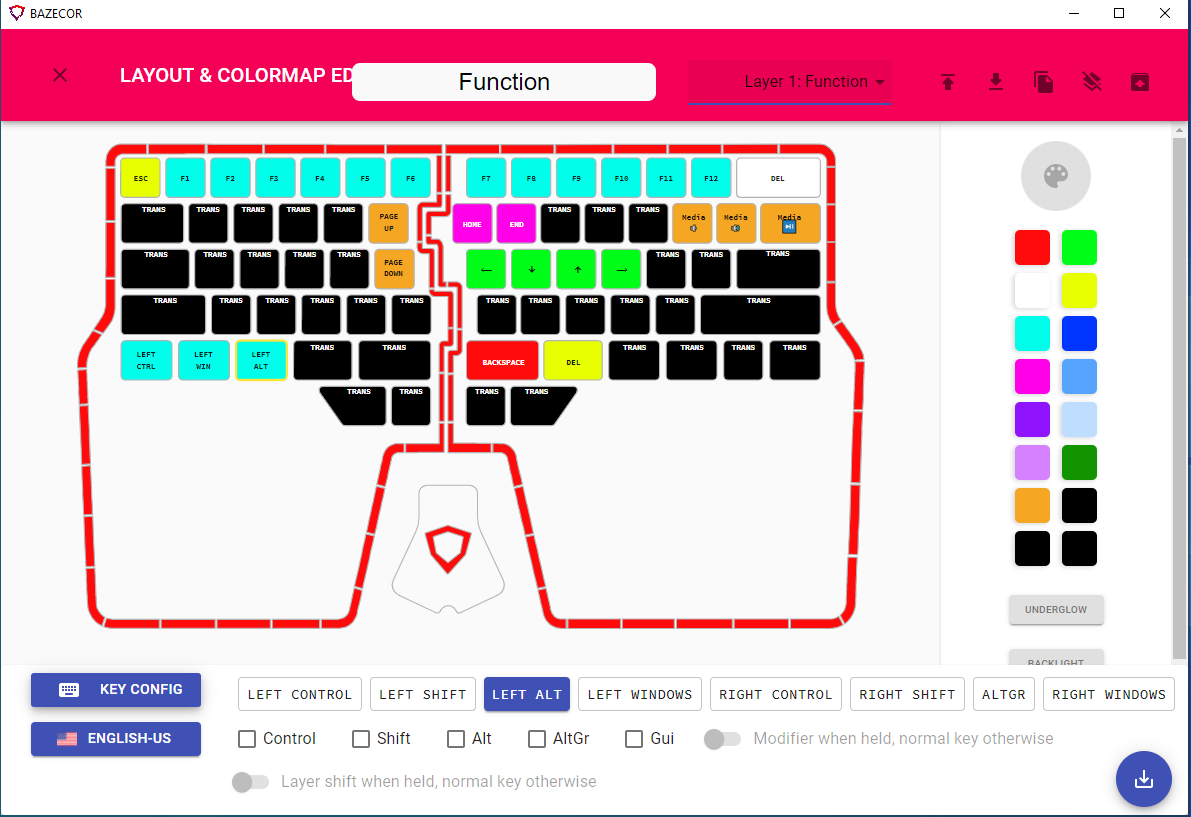
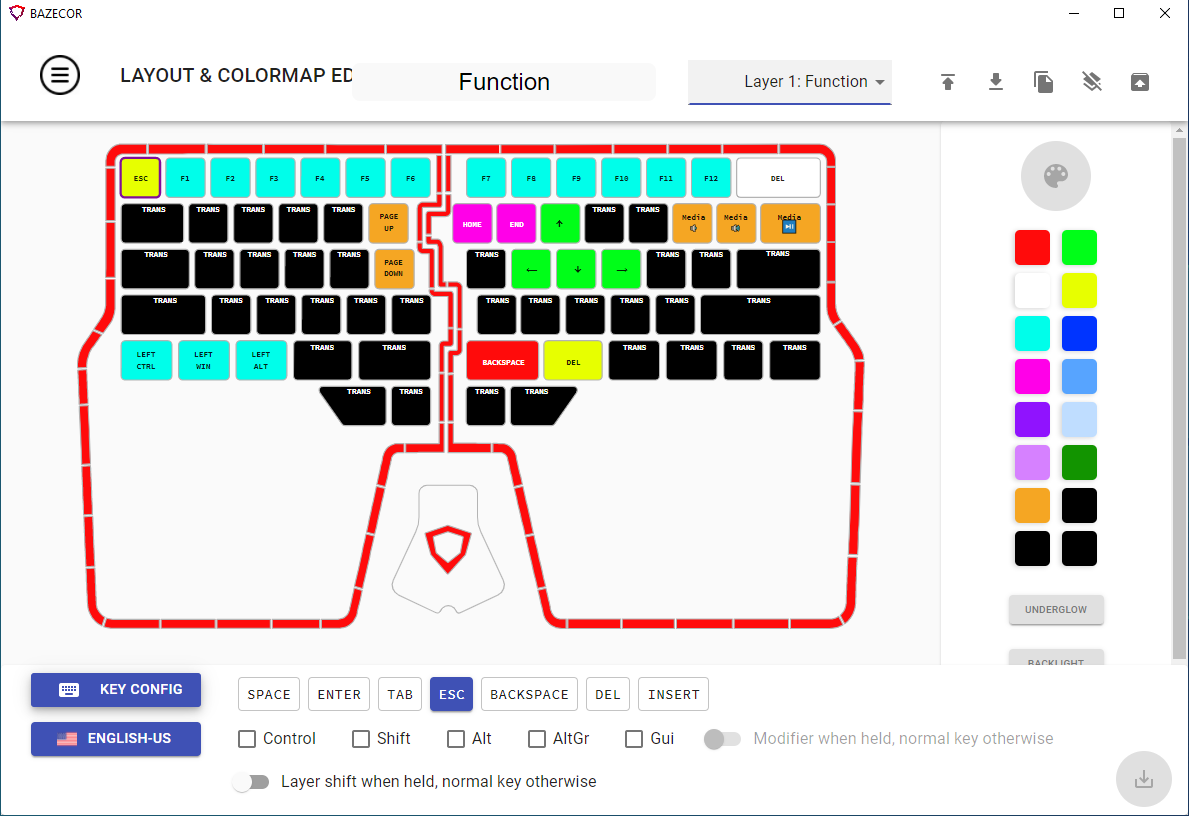
Updated arrow keys

diff --git a/READM.md b/READM.md
@@ -1,0 +1,17 @@
+# Dygma Raise Layers for Visual Studio Code
+
+If you own a Dygma Raise and use Visual Studio Code on a daily basis, let's collaborate.
+
+Some ground rules:
+
+* This is just a start.  Not much is in there at the moment.
+
+* Keep the number of layers to a minimum.  Three layers max.  Two would be even better.
+
+* Should work well with default out-of-the-box experience of VSCode.  No VIM extension!
+
+* When you push changes to a layer, please update the corresponding screenshot as well. 
+
+* I would appreciate if in your PR you could explain the rationale.  It'll be good to understand the reasoning why a certain idea could work better.
+
+s
